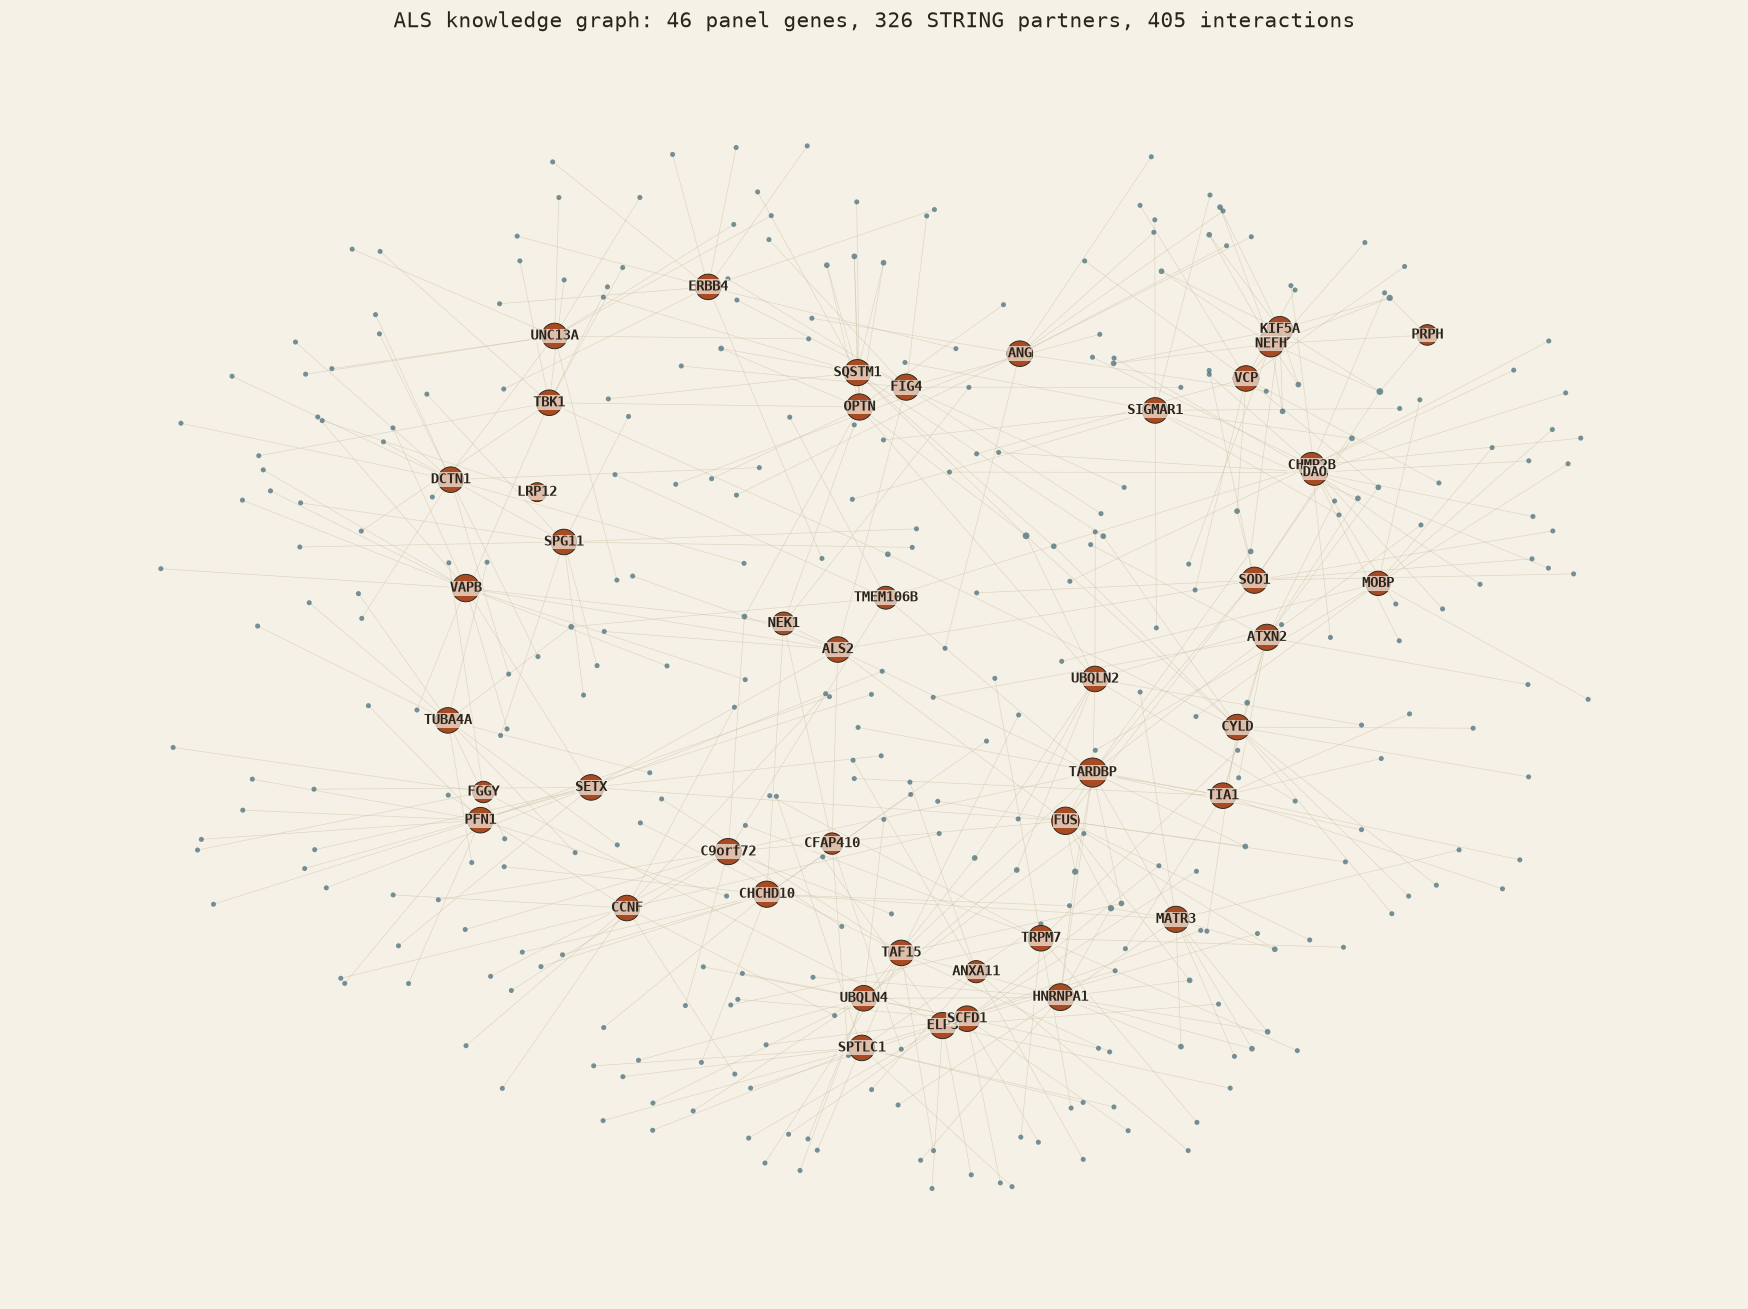
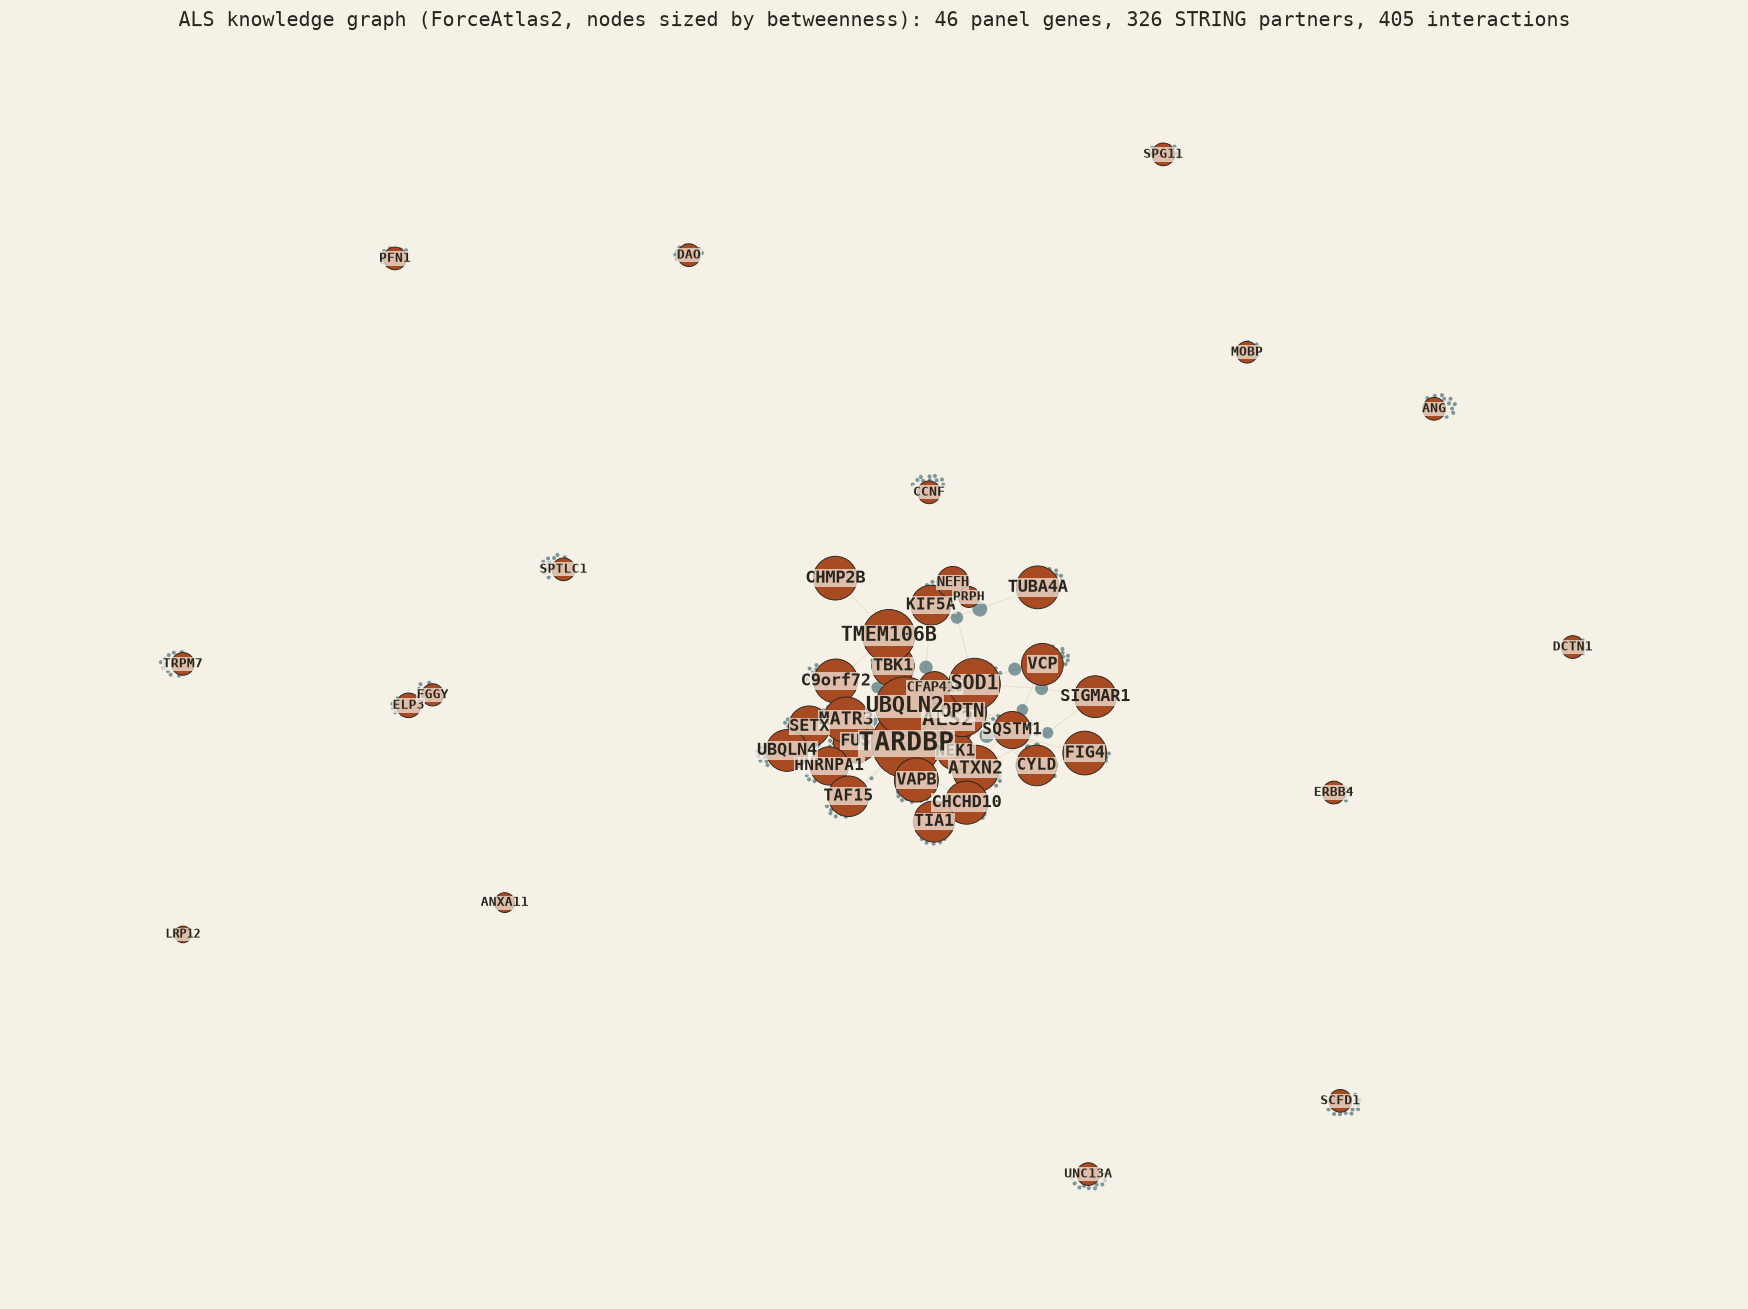
Graph: ForceAtlas2 + betweenness sizing; add per-gene ALS evidence
Re-render outputs/graph_overview.png with a ForceAtlas2 layout and nodes sized
by betweenness centrality (render_graph.py). Add data/als_gene_evidence.json:
per-gene familial and sporadic ALS shares and phenotype specificity from
GeneReviews NBK1450 Tables 2a/2b, with cited PubMed sources for genes outside
those tables.

diff --git a/render_graph.py b/render_graph.py
@@ -22,24 +22,35 @@ for a, b, w in c.execute("select gene_a, gene_b, confidence_score from interacti
 
 panel_nodes = [n for n in G.nodes if n in panel]
 partner_nodes = [n for n in G.nodes if n not in panel]
-deg = dict(G.degree())
-pos = nx.spring_layout(G, k=0.38, iterations=90, seed=7)
+
+# Node importance = betweenness centrality (a node's role as a bridge in the network).
+bc = nx.betweenness_centrality(G)
+maxbc = max(bc.values()) or 1.0
+# ForceAtlas2 layout (the Gephi force model): hubs spread out, clusters separate.
+# node_size feeds anti-overlap, scaled by betweenness so the big bridges get room.
+_fa_size = {n: (16 if n in panel else 3) + (bc[n] / maxbc) ** 0.5 * 60 for n in G.nodes}
+pos = nx.forceatlas2_layout(G, seed=7, max_iter=900, scaling_ratio=14.0, gravity=0.35, node_size=_fa_size)
+
+def _psize(n): return 120 + (bc[n] / maxbc) ** 0.5 * 1900   # panel: big bridges pop
+def _qsize(n): return 7 + (bc[n] / maxbc) ** 0.5 * 240      # partners
 
 plt.figure(figsize=(16, 12), dpi=110)
 ax = plt.gca(); ax.set_facecolor(PAPER)
-nx.draw_networkx_edges(G, pos, edge_color=LINE, width=0.4, alpha=0.55)
+nx.draw_networkx_edges(G, pos, edge_color=LINE, width=0.4, alpha=0.5)
 nx.draw_networkx_nodes(G, pos, nodelist=partner_nodes, node_color=PACIFIC,
-                       node_size=[8 + deg[n] * 3 for n in partner_nodes], alpha=0.65, linewidths=0)
+                       node_size=[_qsize(n) for n in partner_nodes], alpha=0.6, linewidths=0)
 nx.draw_networkx_nodes(G, pos, nodelist=panel_nodes, node_color=RUST,
-                       node_size=[140 + deg[n] * 14 for n in panel_nodes], edgecolors=INK, linewidths=0.6)
+                       node_size=[_psize(n) for n in panel_nodes], edgecolors=INK, linewidths=0.6)
+# Label panel genes; scale the label with betweenness so the big bridges read first.
 _lbl = nx.draw_networkx_labels(G, pos, labels={n: n for n in panel_nodes},
-                               font_size=9, font_color=INK, font_family="monospace", font_weight="bold")
-for t in _lbl.values():
+                               font_color=INK, font_family="monospace", font_weight="bold", font_size=8)
+for n, t in _lbl.items():
+    t.set_fontsize(8 + (bc[n] / maxbc) ** 0.5 * 9)
     t.set_bbox(dict(facecolor=PAPER, edgecolor="none", alpha=0.7, pad=0.4))
 plt.axis("off")
-plt.title(f"ALS knowledge graph: {len(panel_nodes)} panel genes, {len(partner_nodes)} STRING partners, "
-          f"{G.number_of_edges()} interactions",
-          color=INK, fontsize=14, family="monospace")
+plt.title(f"ALS knowledge graph (ForceAtlas2, nodes sized by betweenness): {len(panel_nodes)} panel genes, "
+          f"{len(partner_nodes)} STRING partners, {G.number_of_edges()} interactions",
+          color=INK, fontsize=13, family="monospace")
 plt.tight_layout()
 plt.savefig(OUT, facecolor=PAPER, bbox_inches="tight")
 print(f"wrote {OUT}: {G.number_of_nodes()} nodes, {G.number_of_edges()} edges, {len(panel_nodes)} panel")

diff --git a/README.md b/README.md
@@ -10,7 +10,14 @@ response, so a clean re-run reproduces the database.
 
 The image above is the gene interaction network: rust nodes are the 46 panel genes, the
 faint nodes are their STRING partners, and the lines are STRING interactions. It is
-rendered by `render_graph.py` from the live-built database.
+rendered by `render_graph.py` from the live-built database, using a ForceAtlas2 layout with
+nodes sized by betweenness centrality, so the bridge genes read largest.
+
+Each gene also carries an ALS sensitivity and specificity note: the published share of
+familial and sporadic ALS and the phenotype specificity, from GeneReviews (NBK1450, Tables
+2a and 2b) where available, with cited PubMed sources for genes outside those tables. The
+data sits in `data/als_gene_evidence.json`. Formal sensitivity and specificity are not
+reported per ALS gene; these are the field's closest published measures.
 
 This is research tooling. The hypotheses are machine-generated leads, not validated
 biology and not medical advice.
@@ -206,6 +213,7 @@ src/pipeline/    end-to-end runner
 render_graph.py  renders outputs/graph_overview.png from the database
 data/raw/        the UniProt FASTA and cached API responses
 data/processed/  the built DuckDB and the deduplicated papers
+data/als_gene_evidence.json  per-gene familial/sporadic ALS share and specificity (GeneReviews + cited PubMed)
 outputs/         ranked tables, hypotheses, graph, graph image, provenance
 tests/           offline test suite
 gate_check.py    verification-gate queries